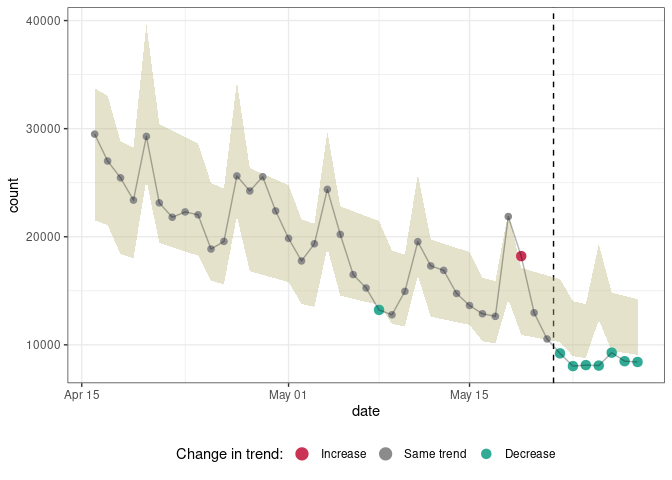
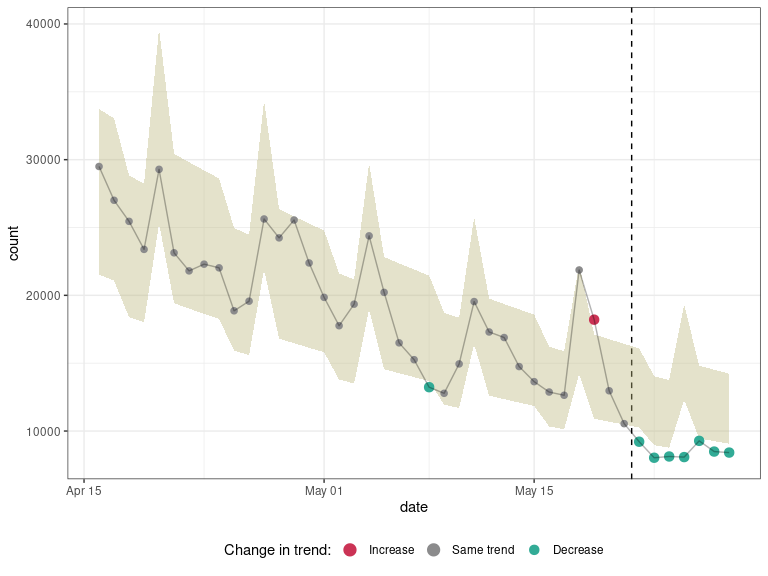
make ASMODEE and plots compatible with incidence2::incidence() objects

diff --git a/README.md b/README.md
@@ -80,24 +80,20 @@ The package implements the following main functions
 
 We illustrate ASMODEE using publicly available NHS pathways data
 recording self-reporting of potential COVID-19 cases in England (see
-`?nhs_pathways_covid19` for more information). ASMODEE would typically
-be more useful to investigate shifts in temporal trends from a large
-number of time series (e.g. at a fine geographic scale), but is this is
-purely for illustrative purposes, we use the full dataset for England.
-See `?asmodee` for further example stratified by geographic units.
+`?nhs_pathways_covid19` for more information).
 
 ``` r
-library(trending)
-library(trendbreaker)
-library(tidyverse)
-#> ── Attaching packages ──────────────────────────────────────────────── tidyverse 1.3.0 ──
-#> ✓ ggplot2 3.3.2     ✓ purrr   0.3.4
-#> ✓ tibble  3.0.3     ✓ dplyr   1.0.1
-#> ✓ tidyr   1.1.1     ✓ stringr 1.4.0
-#> ✓ readr   1.3.1     ✓ forcats 0.5.0
-#> ── Conflicts ─────────────────────────────────────────────────── tidyverse_conflicts() ──
-#> x dplyr::filter() masks stats::filter()
-#> x dplyr::lag()    masks stats::lag()
+library(trending)     # for model interface
+library(trendbreaker) # for ASMODEE
+library(dplyr)        # for data manipulation
+#> 
+#> Attaching package: 'dplyr'
+#> The following objects are masked from 'package:stats':
+#> 
+#>     filter, lag
+#> The following objects are masked from 'package:base':
+#> 
+#>     intersect, setdiff, setequal, union
 
 # load data
 data(nhs_pathways_covid19)
@@ -155,8 +151,8 @@ res
 #>       col_name <- as.character(formula[[2]])
 #>       append_observed_column(res, res[[col_name]])
 #>     }
-#> <bytecode: 0x564c6531fd50>
-#> <environment: 0x564c694262a8>
+#> <bytecode: 0x55faf7e52148>
+#> <environment: 0x55fafb853688>
 #> 
 #> attr(,"class")
 #> [1] "trending_model_fit" "list"              
@@ -195,4 +191,41 @@ res
 plot(res, "date")
 ```
 
-<img src="man/figures/README-asmodee-1.png" width="75%" />
+<img src="man/figures/README-asmodee-1.png" style="display: block; margin: auto;" />
+
+ASMODEE would typically be more useful to investigate shifts in temporal
+trends from a large number of time series (e.g. at a fine geographic
+scale). To make this sort of analysis easier *trendbreaker* also works
+with [*incidence2*](https://github.com/reconhub/incidence2/) objects. To
+illustrate this we can consider trends over NHS regions.
+
+``` r
+library(incidence2)   # for `incidence()` objects
+
+# select last 6 weeks of data
+first_date <- max(nhs_pathways_covid19$date, na.rm = TRUE) - 6*7
+pathways_recent <- filter(nhs_pathways_covid19, date >= first_date)
+
+# create incidence object with extra variables
+lookup <- select(pathways_recent, date, day, weekday) %>%  distinct()
+
+dat <-
+  pathways_recent %>%
+  as_incidence(date_index = date, counts_var = count, group_vars = nhs_region) %>%
+  left_join(lookup, by = "date")
+
+# define candidate models
+models <- list(
+  regression = lm_model(count ~ day),
+  poisson_constant = glm_model(count ~ 1, family = "poisson"),
+  negbin_time = glm_nb_model(count ~ day),
+  negbin_time_weekday = glm_nb_model(count ~ day + weekday)
+)
+
+# analyses on all data
+res <- asmodee(dat, models, method = evaluate_aic)
+
+plot(res, "date")
+```
+
+<img src="man/figures/README-incidence2-1.png" style="display: block; margin: auto;" />
